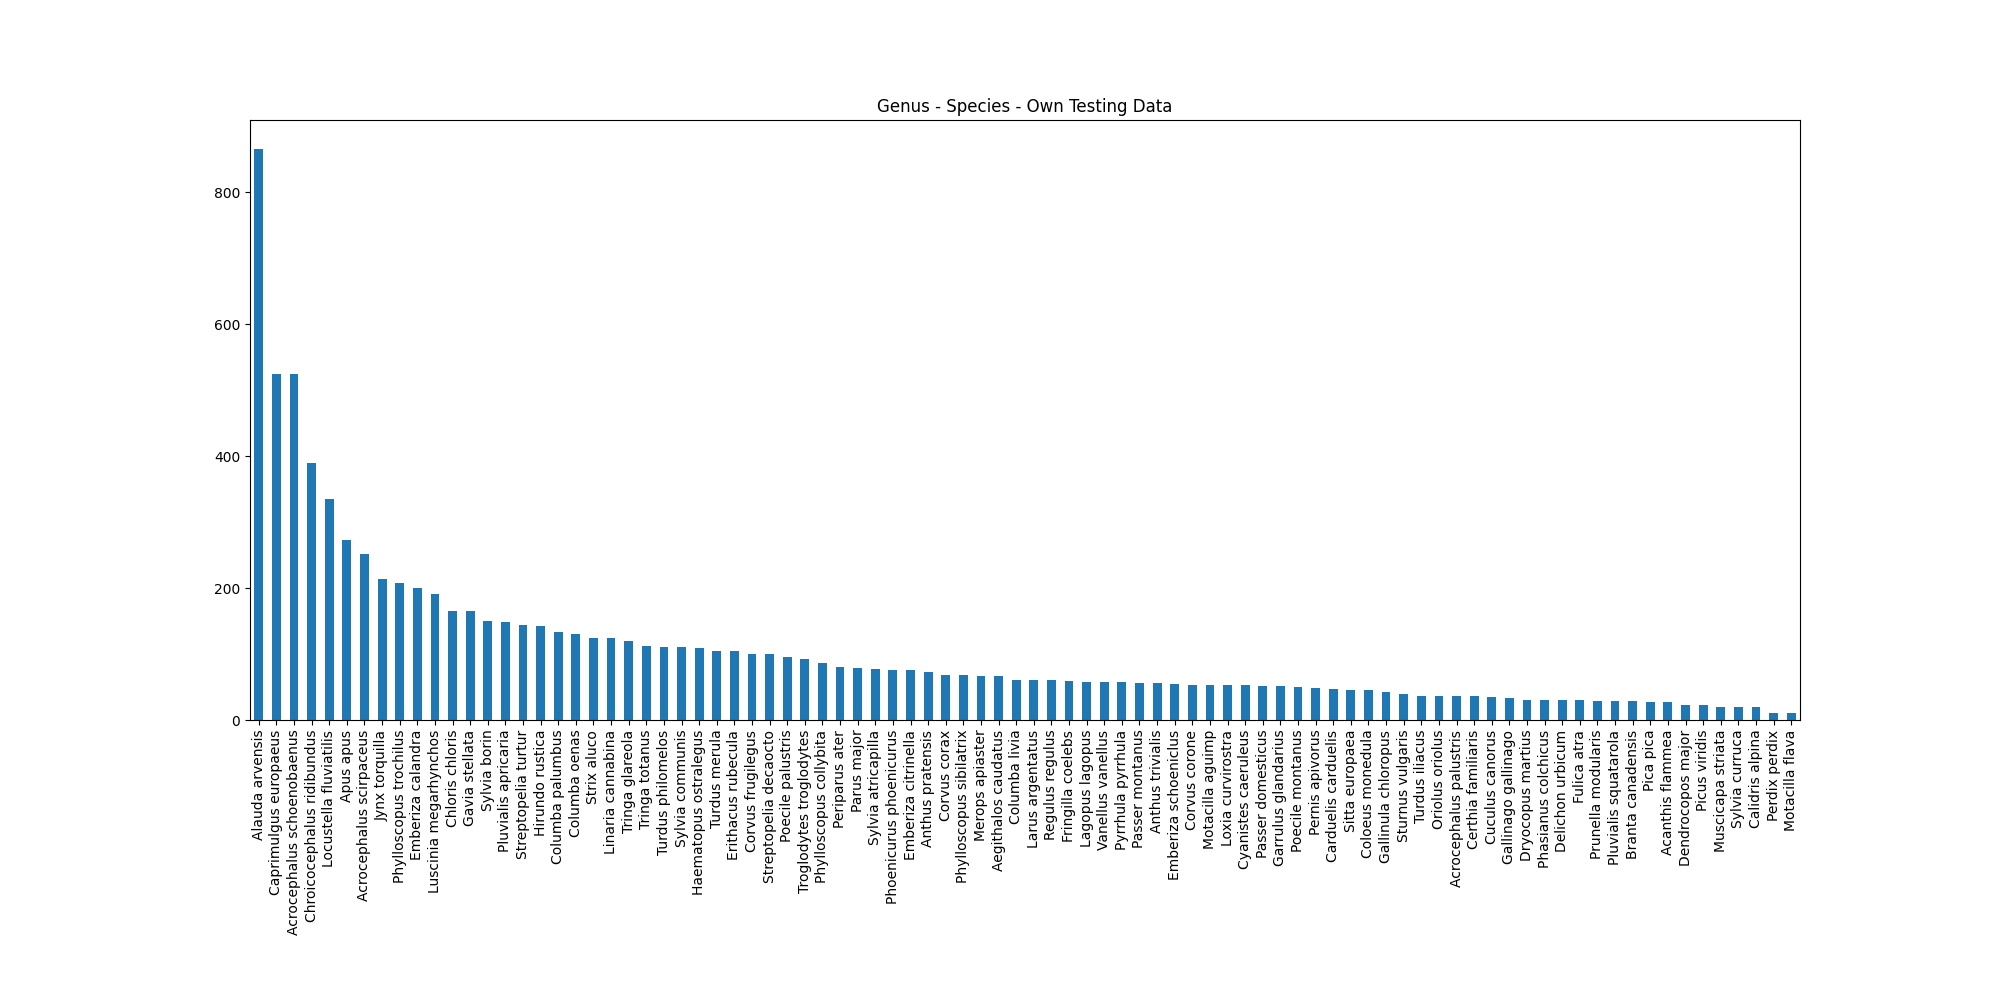
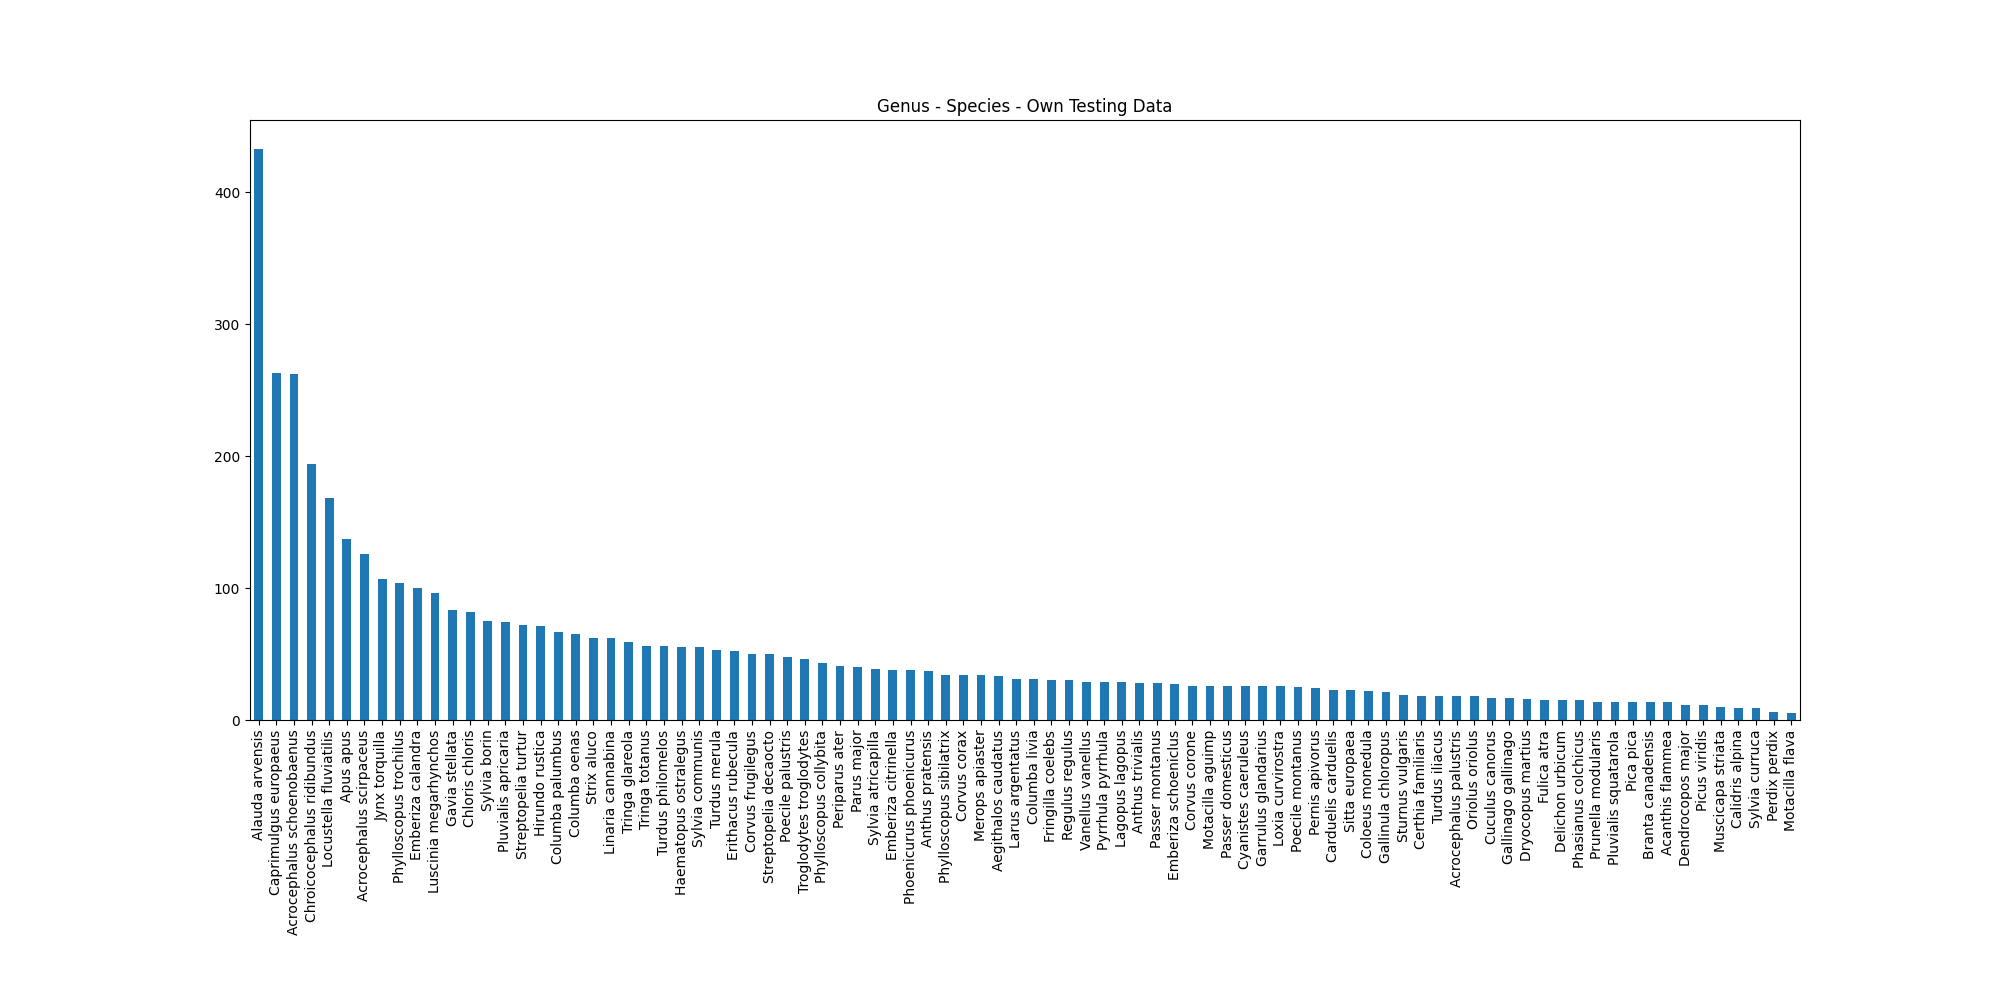
started work using own selected data

diff --git a/Case/case.py b/Case/case.py
@@ -101,7 +101,7 @@ print(*features,sep='\n')
 
 #-- Combined Dataset and Splitting-- 
 dfCombined = pd.concat([dfTrainingSet,dfTestingSet])
-testPercent = 0.5
+testPercent = 0.25
 randomState = 4
 x_train, x_test, y_train, y_test = train_test_split(dfCombined, dfCombined[label], test_size=testPercent, stratify=dfCombined[label], random_state=randomState)
 print("\nX_train Genus Species:")
@@ -378,7 +378,7 @@ print("\nClassifications Own Traning- and Testingset")
 
 
 
-#--- ---
+#--- Gaussian Naive Bayes ---
 
 #---- Result ----
 
@@ -386,7 +386,7 @@ print("\nClassifications Own Traning- and Testingset")
 
 
 
-#--- ---
+#--- Decision Tree Classifier ---
 
 #---- Result ----
 
@@ -394,9 +394,15 @@ print("\nClassifications Own Traning- and Testingset")
 
 
 
-#--- ---
+#--- Multi-Layer Perceptron Neural Network ---
+mlpnn2 = MLPClassifier(random_state=randomState, max_iter=10000)
+mlpnn2.fit(x_train[features], y_train)
+pred_test_mlpnn2 = mlpnn2.predict(x_test[features])
 
 #---- Result ----
+print("\nMulti-Layer Perceptron Neural Network")
+print("test accuracy", str(np.mean(pred_test_mlpnn2 == y_test)))
+print(classification_report(y_test, pred_test_mlpnn2))
 
 #---- Confusion Matrix ----
 
